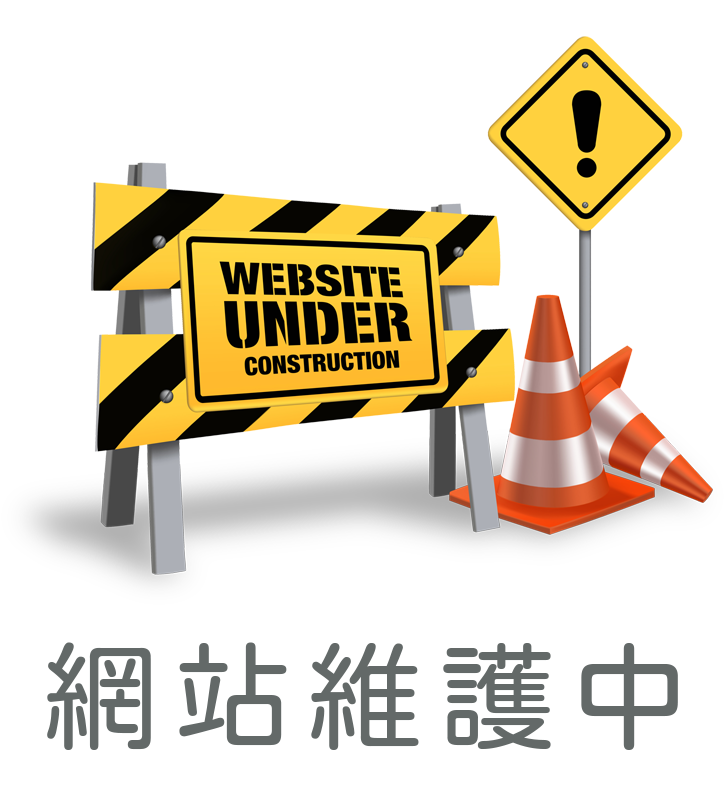
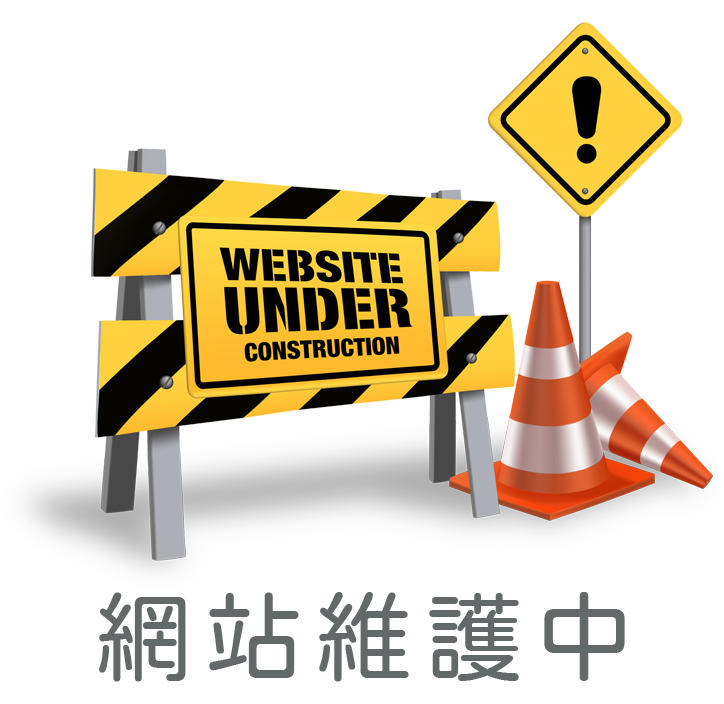
20230801-改圖

diff --git a/underConstruction.html b/underConstruction.html
@@ -48,7 +48,7 @@
         }
         .indImg{
             width: 55%;
-            margin: 30px auto;
+            margin: 10px auto;
             display: block;
         }
         .text{
@@ -70,7 +70,7 @@
             }
             .indImg{
                 width: 50%;
-                margin: 40px auto;
+                margin: 10px auto;
                 display: block;
             }
 
@@ -87,7 +87,7 @@
             }
             .indImg{
                 width: 25%;
-                margin: 50px auto;
+                margin: 10px auto;
                 display: block;
             }
 
@@ -102,9 +102,9 @@
     <!-- <div class="indWidth"> -->
         <div class="indLogoNameBk">
             <img src="images/logo.png" alt="LOGO" class="indImg">
-            <h1 class="systemName">
+            <!-- <h1 class="systemName">
                 臺中市政府衛生局
-            </h1>
+            </h1> -->
             <!-- <p class="text">
                 請洽專員馬小姐：lousalme88888@gmail.com
             </p> -->
